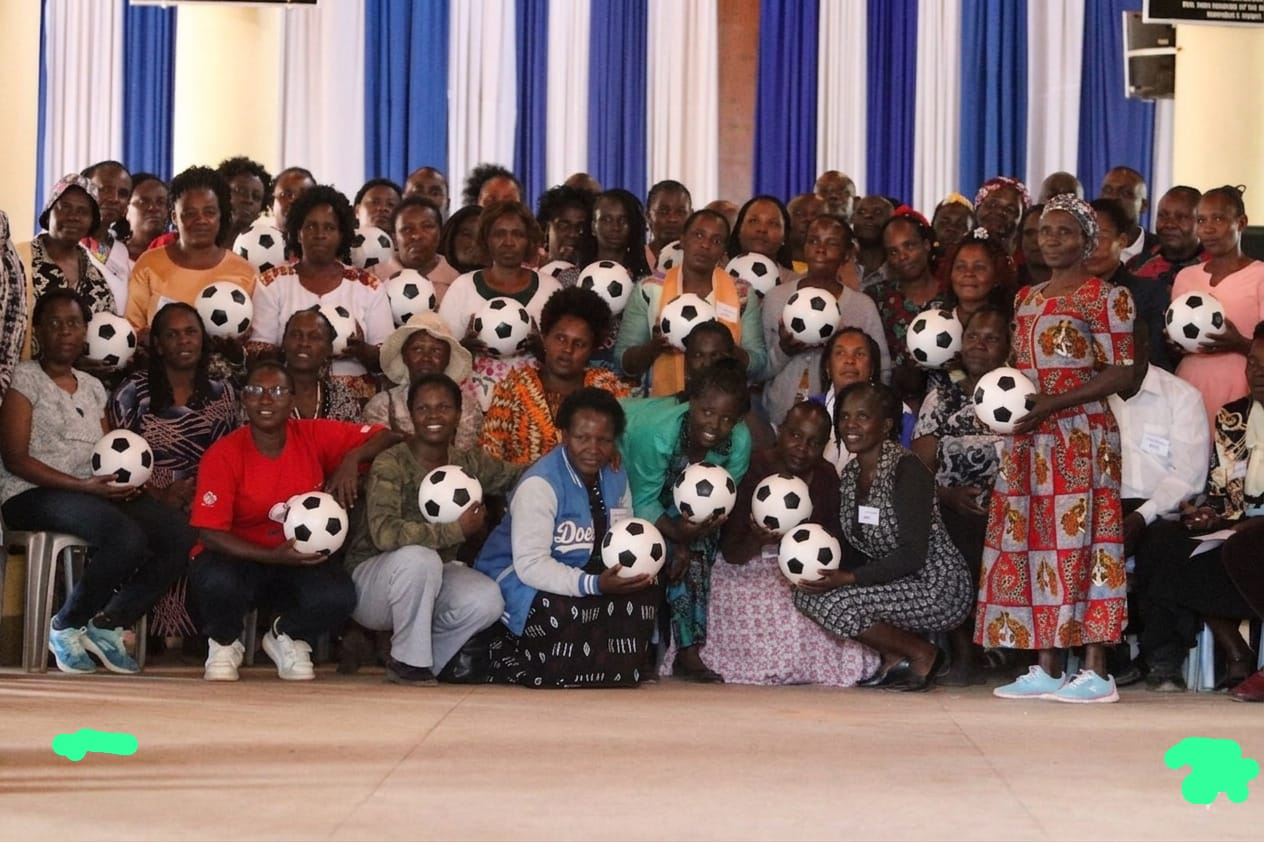
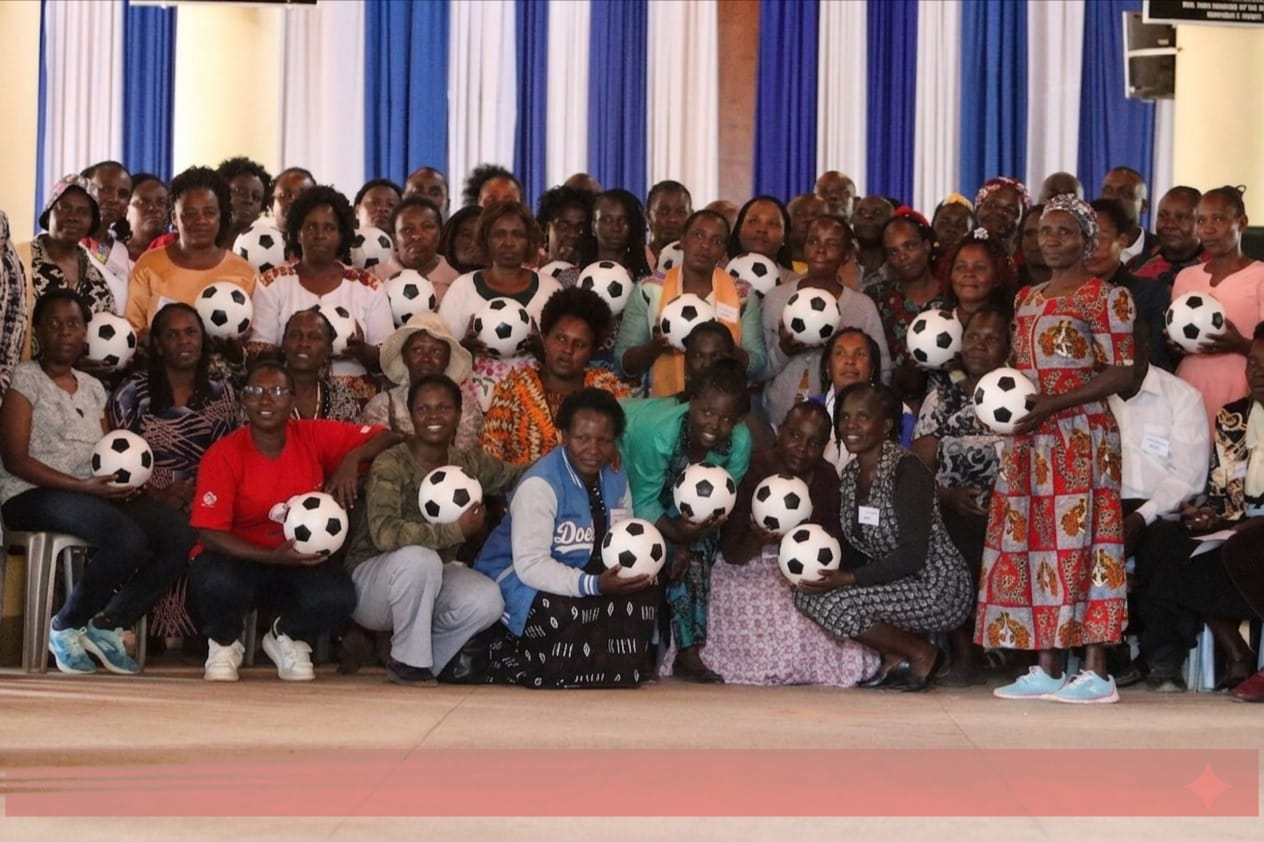
Update images and styles, remove unused hero image

Changed region(s): [[0.0, 0.8646, 1.0, 0.9881], [0.7714, 0.4323, 0.8022, 0.4632]]

diff --git a/landing.css b/landing.css
@@ -1,5 +1,5 @@
 .hero {
-            background-image: url("images/hero-mobile.jpg");
+            background-image: url("images/bg-img1.jpg");
 background-size: cover;
 background-position: center;
 
